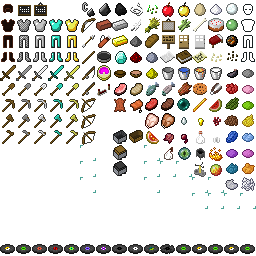
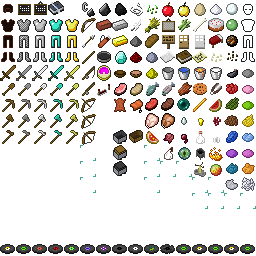
Add chemistry recipe book

Changed region(s): [[0.0625, 0.0, 0.25, 0.0625]]

diff --git a/Client/mod_Minechem/net/minecraft/src/mod_Minechem.java b/Client/mod_Minechem/net/minecraft/src/mod_Minechem.java
@@ -26,11 +26,12 @@ import net.minecraft.src.ic2.api.*;
 
 public class mod_Minechem extends BaseMod {
 
-	@MLProp public static int blockIDMinechem = 236;
+	@MLProp public static int blockIDMinechem = 253;
 	@MLProp public static int itemIDTestTube = 3001;
 	@MLProp public static int itemIDEmptyTestTube = 3000;
 	@MLProp public static int itemIDTableOfElements = 3002;
 	@MLProp public static int itemIDHangableTableOfElements = 3003;
+	@MLProp public static int itemIDChemistryBook = 3004;
 	@MLProp public static boolean requireIC2Power = false;
 	public static Item itemTesttubeEmpty;
 	public static Item itemTesttube;
@@ -40,6 +41,7 @@ public class mod_Minechem extends BaseMod {
 	public static Item leadBoots;
 	public static Item tableOfElements;
 	public static Item hangableTableOfElements;
+	public static Item chemistryBook;
 	public static Block blockMinechem;
 	public static Map<ItemStack, Molecule[]> electrolysisRecipes;
 	private static File fileChemicalDictionary = new File(Minecraft.getMinecraftDir(), "/minechem/Chemical Dictionary.txt");
@@ -59,6 +61,7 @@ public class mod_Minechem extends BaseMod {
 		itemTesttubeEmpty.iconIndex = ModLoader.addOverride("/gui/items.png", "/minechem/testtube_empty.png");
 		tableOfElements = new ItemTableOfElements(itemIDTableOfElements);
 		hangableTableOfElements = new ItemHangableTableOfElements(itemIDHangableTableOfElements);
+		chemistryBook = new ItemChemistryBook(itemIDChemistryBook);
 		leadBoots.setItemName("leadboots");
 		leadLeggings.setItemName("leadleggings");
 		leadTorso.setItemName("leadTorso");
@@ -77,6 +80,7 @@ public class mod_Minechem extends BaseMod {
 		ModLoader.AddName(itemTesttube, "Test Tube");
 		ModLoader.AddName(tableOfElements, "Table of Elements");
 		ModLoader.AddName(hangableTableOfElements, "Hangable Table of Elements");
+		ModLoader.AddName(chemistryBook, "Chemistry Book");
 		ModLoader.AddName(leadBoots, "Lead Boots");
 		ModLoader.AddName(leadLeggings, "Lead Leggings");
 		ModLoader.AddName(leadTorso, "Lead Chestplate");
@@ -110,7 +114,7 @@ public class mod_Minechem extends BaseMod {
 			"#R#",
 			"#D#",
 			Character.valueOf('D'), Item.diamond,
-			Character.valueOf('R'), Molecule.elementByFormula("Fr", 1).stack,
+			Character.valueOf('R'), Molecule.elementByFormula("Th", 1).stack,
 			Character.valueOf('#'), Item.ingotIron
 		});
 		ModLoader.AddRecipe(new ItemStack(blockMinechem, 1, ItemMinechem.bonder), new Object[]{
@@ -186,6 +190,14 @@ public class mod_Minechem extends BaseMod {
 			Character.valueOf('S'), Item.stick,
 			Character.valueOf('T'), tableOfElements
 		});
+		ModLoader.AddRecipe(new ItemStack(chemistryBook, 1), new Object[]{
+			"STS",
+			"SBS",
+			"SSS",
+			Character.valueOf('S'), Item.silk,
+			Character.valueOf('T'), tableOfElements,
+			Character.valueOf('B'), Item.book
+		});
 		
 		electrolysisRecipes = new HashMap<ItemStack, Molecule[]>();
 		
@@ -198,12 +210,12 @@ public class mod_Minechem extends BaseMod {
 				new Molecule(1, 2)
 		);
 		addElectrolysisRecipe(new ItemStack(Item.ingotIron, 1),
-				new Molecule(26, 4),
-				new Molecule(26, 4)
+				new Molecule(26, 5),
+				new Molecule(26, 5)
 		);
 		addElectrolysisRecipe(new ItemStack(Item.ingotGold, 1),
-				new Molecule(79, 8),
-				new Molecule(79, 8)
+				new Molecule(79, 9),
+				new Molecule(79, 9)
 		);
 		addElectrolysisRecipe(new ItemStack(Block.oreIron, 1),
 				Molecule.elementByFormula("Fe", 4),
@@ -214,8 +226,8 @@ public class mod_Minechem extends BaseMod {
 				Molecule.elementByFormula("Au", 8)
 		);
 		addElectrolysisRecipe(new ItemStack(Item.diamond, 1),
-				new Molecule(6, 16),
-				new Molecule(6, 16)
+				new Molecule(6, 64),
+				new Molecule(6, 64)
 		);
 		addElectrolysisRecipe(new ItemStack(Item.coal, 1),
 				new Molecule(6, 1),
@@ -275,11 +287,22 @@ public class mod_Minechem extends BaseMod {
 		);
 		addElectrolysisRecipe(new ItemStack(Item.appleGold, 1),	
 				Molecule.moleculeByFormula("C6H8O7"),
-				Molecule.elementByFormula("Au", 84)
+				Molecule.elementByFormula("Au", 42)
 		);
 		addElectrolysisRecipe(new ItemStack(blockMinechem, 1, ItemMinechem.thermite),
 				Molecule.moleculeByFormula("Fe2O3"),
 				Molecule.moleculeByFormula("Fe2O3")
+		);
+		
+		addElectrolysisRecipe(new ItemStack(Item.bone, 1),	
+				Molecule.elementByFormula("Ca", 16),
+				Molecule.elementByFormula("Fe", 2)
+		);
+		
+		//Lapis
+		addElectrolysisRecipe(new ItemStack(Item.dyePowder, 1, 4),	
+				Molecule.moleculeByFormula("Na4Ca4Al6Si6O24S2"),
+				Molecule.moleculeByFormula("Na2Ca6Al6Si6O24S2")
 		);
 		
 		// Add ore dictionary for electrolysis.
@@ -417,7 +440,7 @@ public class mod_Minechem extends BaseMod {
 
 	@Override
 	public String getVersion() {
-		return "1.0";
+		return "1.2";
 	}
 
 	@Override

diff --git a/Client/mod_Minechem/net/minecraft/minechem/GuiChemistryBook.java b/Client/mod_Minechem/net/minecraft/minechem/GuiChemistryBook.java
@@ -1,11 +1,127 @@
 package net.minecraft.minechem;
 
+import java.util.List;
+
+import org.lwjgl.input.Mouse;
+import org.lwjgl.opengl.GL11;
+
+import net.minecraft.src.AchievementList;
+import net.minecraft.src.EntityPlayer;
+import net.minecraft.src.GuiContainer;
 import net.minecraft.src.GuiScreen;
 
-public class GuiChemistryBook extends GuiScreen {
+public class GuiChemistryBook extends GuiContainer {
+	
+	private float currentScroll;
+    private boolean isScrolling;
+    private boolean wasClicking;
+    private ContainerChemistryBook containerChemistryBook;
+    
+	public GuiChemistryBook(EntityPlayer entityplayer) {
+		super( new ContainerChemistryBook(entityplayer) );
+		entityplayer.craftingInventory = inventorySlots;
+		containerChemistryBook = (ContainerChemistryBook)inventorySlots;
+		currentScroll = 0.0F;
+        isScrolling = false;
+        allowUserInput = true;
+        ySize = 208;
+        xSize = 220;
+	}
+	
+	public void handleMouseInput()
+    {
+        super.handleMouseInput();
+        int i = Mouse.getEventDWheel();
+        if (i != 0)
+        {
+        	int listSize = 1;
+            int j = (listSize / 8 - 8) + 1;
+            if (i > 0)
+            {
+                i = 1;
+            }
+            if (i < 0)
+            {
+                i = -1;
+            }
+            currentScroll -= (double)i / (double)j;
+            if (currentScroll < 0.0F)
+            {
+                currentScroll = 0.0F;
+            }
+            if (currentScroll > 1.0F)
+            {
+                currentScroll = 1.0F;
+            }
+            containerChemistryBook.scrollTo(currentScroll);
+        }
+    }
 
-	public GuiChemistryBook() {
-		
+    public void drawScreen(int i, int j, float f)
+    {
+        boolean flag = Mouse.isButtonDown(0);
+        int k = guiLeft;
+        int l = guiTop;
+        int i1 = k + 155;
+        int j1 = l + 17;
+        int k1 = i1 + 14;
+        int l1 = j1 + 88 + 2;
+        if (!wasClicking && flag && i >= i1 && j >= j1 && i < k1 && j < l1)
+        {
+            isScrolling = true;
+        }
+        if (!flag)
+        {
+            isScrolling = false;
+        }
+        wasClicking = flag;
+        if (isScrolling)
+        {
+            currentScroll = (float)(j - (j1 + 8)) / ((float)(l1 - j1) - 16F);
+            if (currentScroll < 0.0F)
+            {
+                currentScroll = 0.0F;
+            }
+            if (currentScroll > 1.0F)
+            {
+                currentScroll = 1.0F;
+            }
+            containerChemistryBook.scrollTo(currentScroll);
+        }
+        super.drawScreen(i, j, f);
+        GL11.glColor4f(1.0F, 1.0F, 1.0F, 1.0F);
+        GL11.glDisable(2896 /*GL_LIGHTING*/);
+    }
+
+	@Override
+	protected void drawGuiContainerBackgroundLayer(float f, int i, int j) {
+		int l = guiLeft;
+        int i1 = guiTop;
+
+		GL11.glColor4f(1.0F, 1.0F, 1.0F, 1.0F);
+        int k = mc.renderEngine.getTexture("/minechem/guiRecipeBook.png");
+        mc.renderEngine.bindTexture(k);
+        
+        drawTexturedModalRect(l, i1, 0, 0, xSize, ySize);
+        int j1 = l + 155;
+        int k1 = i1 + 17;
+        int l1 = k1 + 88 + 2;
+        drawTexturedModalRect(l + 154, i1 + 17 + (int)((float)(l1 - k1 - 17) * currentScroll), 0, 208, 16, 16);
+        
+        List<String> recipelist = containerChemistryBook.getRecipes();
+        int y = 0;
+        for(String recipe : recipelist) {
+        	boolean didShorten = false;
+        	while(fontRenderer.getStringWidth(recipe) > 140) {
+        		recipe = recipe.substring(0, recipe.length()-4);
+        		didShorten = true;
+        	}
+        	if(didShorten)
+        		recipe += "..";
+        	fontRenderer.drawStringWithShadow(recipe, l+10, (i1+19)+(11*y), -1);
+        	y++;
+        }
+
 	}
 
 }

diff --git a/Client/mod_Minechem/net/minecraft/minechem/TileEntityFission.java b/Client/mod_Minechem/net/minecraft/minechem/TileEntityFission.java
@@ -45,18 +45,19 @@ public class TileEntityFission extends TileEntityMinechemMachine implements IEne
 	
 	public boolean canFissure()
 	{
-		return isSingleElementTube(inventoryStack[0]) && isEmptyTube(inventoryStack[1]) && isEmptyTube(inventoryStack[2]);
+		return isElementTube(inventoryStack[0]) && isEmptyTube(inventoryStack[1]) && isEmptyTube(inventoryStack[2]);
 	}
 	
 	public void fissionComplete()
 	{
 		ItemStack input = inventoryStack[0];
+		Molecule mInput = Molecule.moleculeByItemStack(input);
 		int element = input.getItemDamage();
 		int elementDiv = element / 2;
 		if(inventoryStack[1] != null && elementDiv > 0)
-			inventoryStack[1] = new Molecule(elementDiv, 1).stack;
+			inventoryStack[1] = new Molecule(elementDiv, mInput.atoms).stack;
 		if(inventoryStack[2] != null && elementDiv > 0)
-			inventoryStack[2] = new Molecule(elementDiv, 1).stack;
+			inventoryStack[2] = new Molecule(elementDiv, mInput.atoms).stack;
 		
 		inventoryStack[0] = new ItemStack(mod_Minechem.itemTesttubeEmpty, 1);
 		dumpSlotToChest(0);

diff --git a/Client/mod_Minechem/net/minecraft/minechem/ItemChemistryBook.java b/Client/mod_Minechem/net/minecraft/minechem/ItemChemistryBook.java
@@ -1,0 +1,33 @@
+package net.minecraft.minechem;
+
+import net.minecraft.src.EntityPlayer;
+import net.minecraft.src.Item;
+import net.minecraft.src.ItemStack;
+import net.minecraft.src.ModLoader;
+import net.minecraft.src.World;
+import net.minecraft.src.mod_Minechem;
+import net.minecraft.src.forge.ITextureProvider;
+
+public class ItemChemistryBook extends Item implements ITextureProvider {
+
+	public ItemChemistryBook(int i) {
+		super(i);
+		setItemName("chemistrybook");
+		setIconCoord(3, 0);
+	}
+	
+	@Override
+	public ItemStack onItemRightClick(ItemStack itemstack, World world,
+			EntityPlayer entityplayer) {
+		
+		ModLoader.OpenGUI(entityplayer, new GuiChemistryBook(entityplayer));
+		
+		return itemstack;
+	}
+	
+	@Override
+	public String getTextureFile() {
+		return mod_Minechem.minechemItemsTexture;
+	}
+
+}

diff --git a/Client/mod_Minechem/net/minecraft/minechem/TileEntityUnbonder.java b/Client/mod_Minechem/net/minecraft/minechem/TileEntityUnbonder.java
@@ -13,7 +13,7 @@ import net.minecraft.src.ic2.api.IEnergySink;
 
 public class TileEntityUnbonder extends TileEntityMinechemMachine implements IEnergySink {
 	
-	public static int timerDuration = 300;
+	public static int timerDuration = 120;
 	private boolean isProcessComplete;
 	private boolean isRunning;
 	private boolean hasEnoughPower;
@@ -98,7 +98,6 @@ public class TileEntityUnbonder extends TileEntityMinechemMachine implements IEn
 						int atoms = 1;
 						if(!atomsStr.equals(""))
 							atoms = Integer.valueOf(atomsStr);
-						System.out.println(element + ":" + atoms);
 						Molecule outputMolecule = Molecule.elementByFormula(element, atoms);
 						
 						if(outputMolecule != null && outputMolecule.stack != null) {

diff --git a/Client/mod_Minechem/net/minecraft/minechem/TileEntityFusion.java b/Client/mod_Minechem/net/minecraft/minechem/TileEntityFusion.java
@@ -69,7 +69,11 @@ public class TileEntityFusion extends TileEntityMinechemMachine implements IEner
 		int c = a + b;
 		if(c <= 109)
 		{
-			inventoryStack[2] = new ItemStack(mod_Minechem.itemTesttube, 1, c);
+			int atomsA = Molecule.moleculeByItemStack(inventoryStack[0]).atoms;
+			int atomsB = Molecule.moleculeByItemStack(inventoryStack[1]).atoms;
+			int atomsC = Math.min(atomsA, atomsB);
+			Molecule m = new Molecule(c, atomsC);
+			inventoryStack[2] = m.stack;
 		}
 		inventoryStack[0] = new ItemStack(mod_Minechem.itemTesttubeEmpty, 1);
 		inventoryStack[1] = new ItemStack(mod_Minechem.itemTesttubeEmpty, 1);

diff --git a/Client/mod_Minechem/net/minecraft/minechem/TileEntityBonder.java b/Client/mod_Minechem/net/minecraft/minechem/TileEntityBonder.java
@@ -13,7 +13,7 @@ import net.minecraft.src.ic2.api.IEnergySink;
 
 public class TileEntityBonder extends TileEntityMinechemMachine implements IEnergySink {
 
-	public static int timerDuration = 300;
+	public static int timerDuration = 120;
 	private boolean isProcessComplete;
 	private boolean isRunning;
 	private boolean hasEnoughPower;
